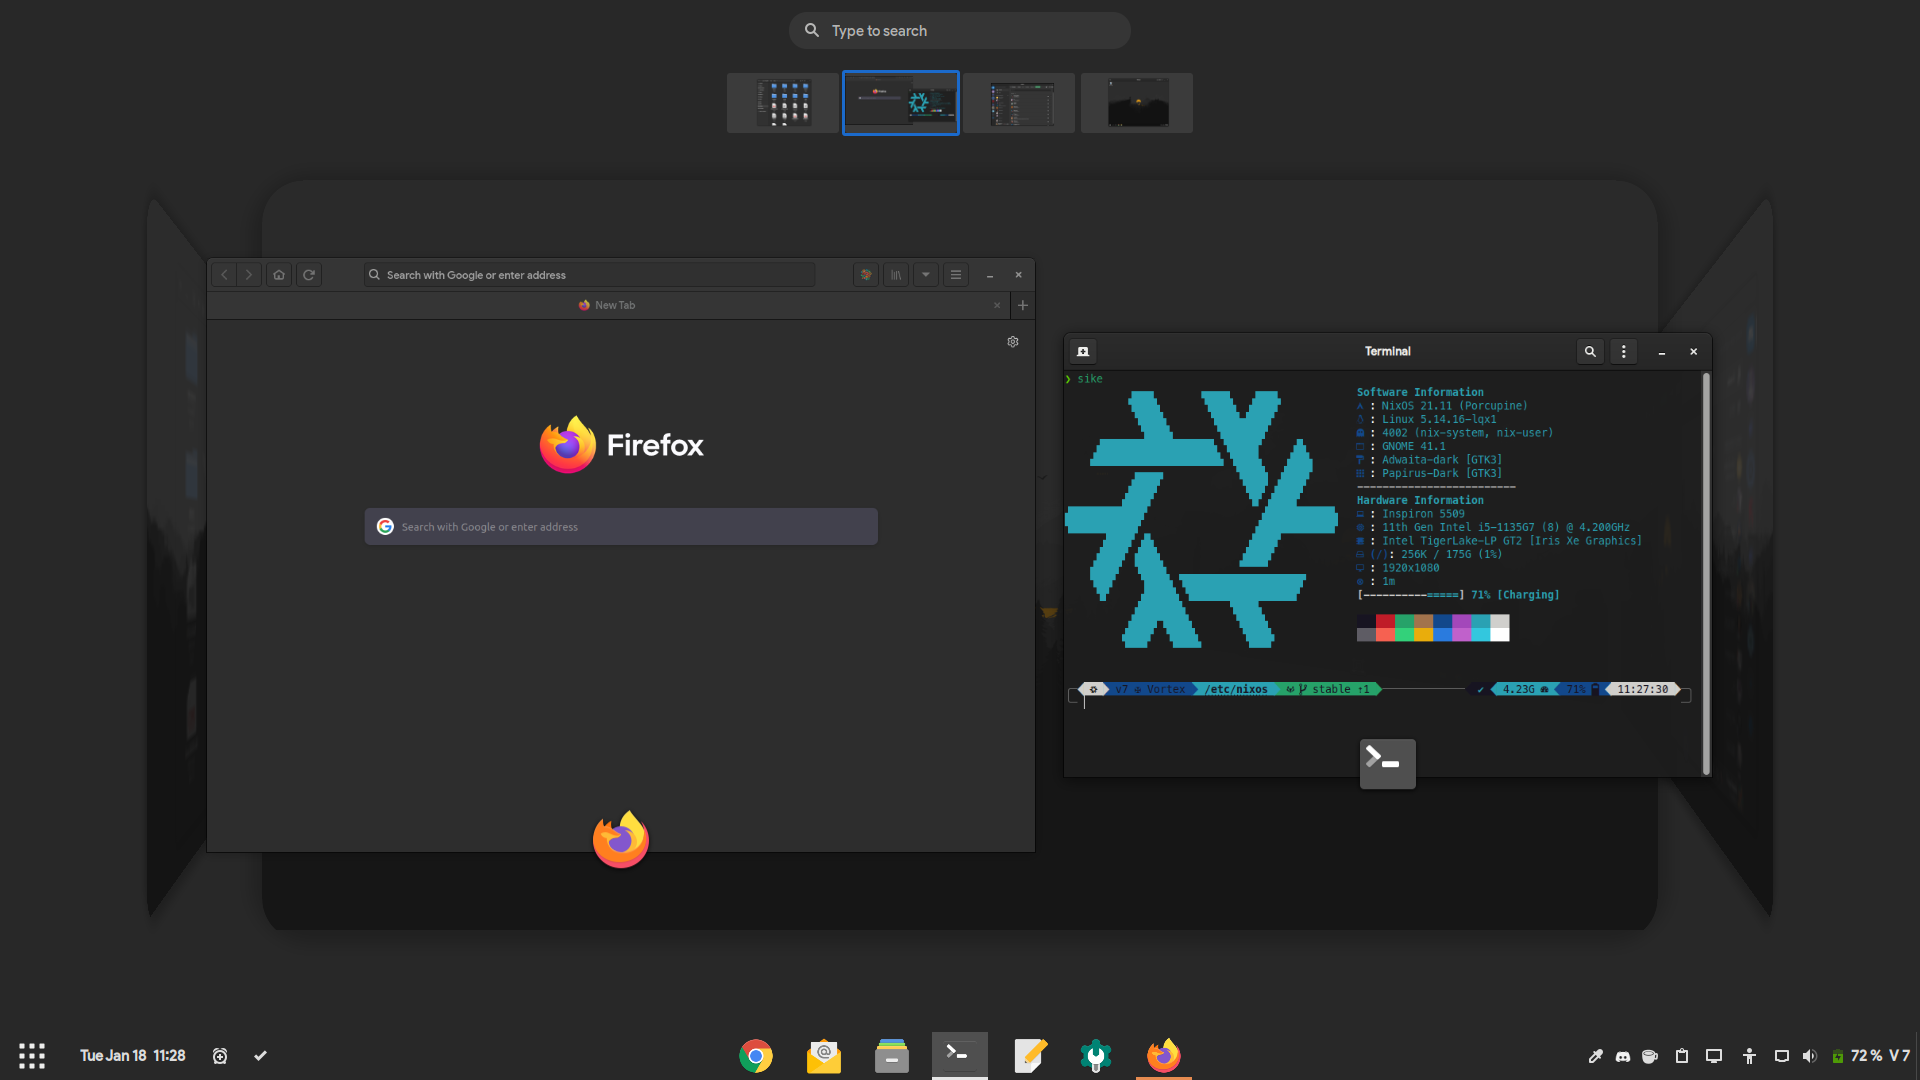
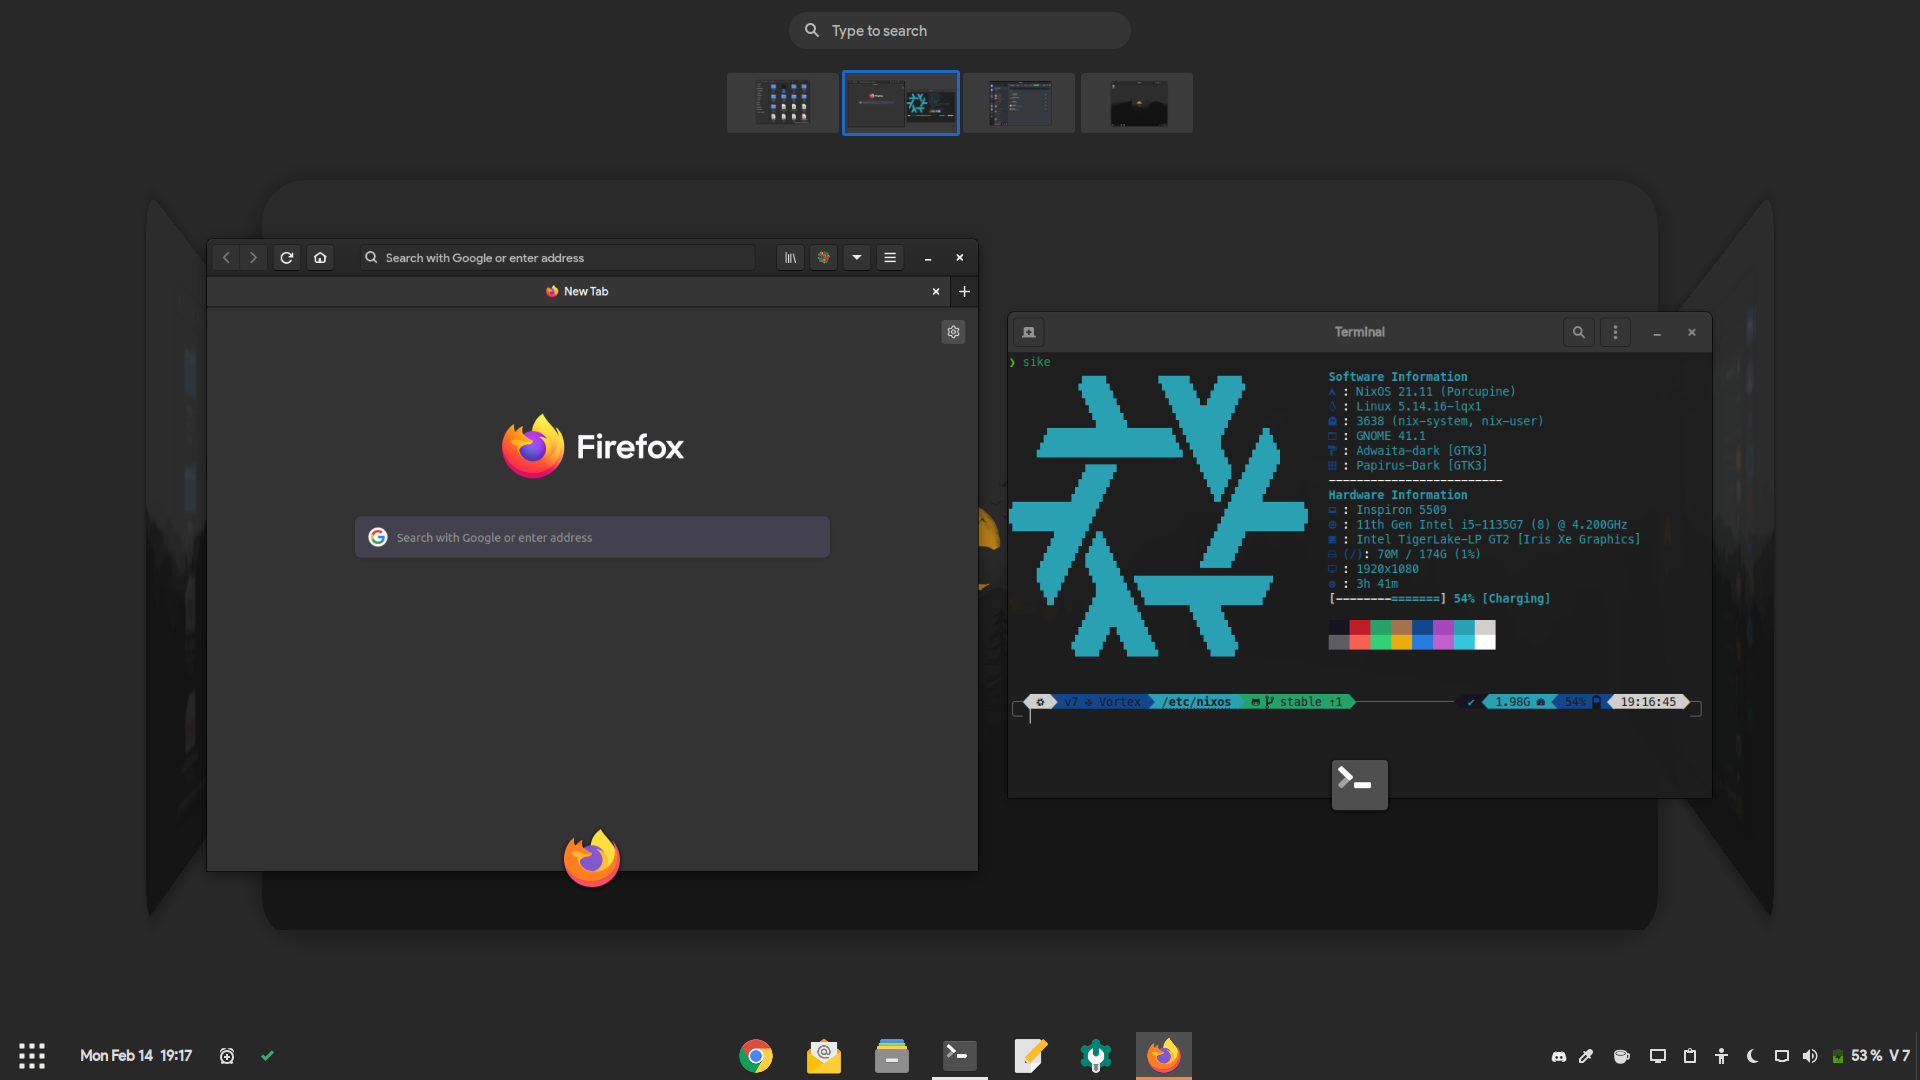
feat: Add Firefox CSS

diff --git a/files/firefox/userContent.css b/files/firefox/userContent.css
@@ -1,0 +1,65 @@
+/* ## Firefox GNOME Theme ## */
+
+/* ## Color Scheme */
+ :root {
+     --accent-color: 21, 83 ,158;
+     --secondary-accent-color: 255, 255, 255;
+     --light-color: 227, 227, 227;
+     --light-color-text: 51, 51, 51;
+     --dark-color: 51, 51, 51;
+     --dark-color-text: 227, 227, 227;
+     --dark-color-light: 77, 77, 77;
+}
+
+/* # Light Theme */
+ :root {
+     --main-bgcolor: var(--dark-color);
+     --transparent-bgcolor: var(--dark-color);
+}
+
+ @media (prefers-color-scheme: light) {
+     @-moz-document url("about:newtab"), url("about:home"), url("about:blank") {
+         body {
+             background-color: rgba(var(--light-color), 1) !important;
+        }
+    }
+     .outer-wrapper.newtab-experience .search-wrapper .search-handoff-button, .outer-wrapper.newtab-experience .search-wrapper input, html body.activity-stream div#root div span button.personalize-button {
+         transition: all 0.3s ease !important;
+         background-color: rgba(var(--secondary-accent-color), 1) !important;
+         color: rgba(var(--light-color-text), 1) !important;
+    }
+     html body.activity-stream div#root div span button.personalize-button:hover {
+         background-color: rgba(var(--accent-color), 0.2) !important;
+    }
+}
+
+/* # Dark Theme */
+ :root:-moz-lwtheme-brighttext {
+     --main-bgcolor: var(--dark-color);
+     --transparent-bgcolor: var(--dark-color);
+}
+ .outer-wrapper.newtab-experience .search-wrapper .search-handoff-button, .outer-wrapper.newtab-experience .search-wrapper input {
+     box-shadow: none !important;
+}
+ .outer-wrapper.newtab-experience .search-wrapper.fake-focus:not(.search.disabled) .search-handoff-button {
+     border-color: rgba(var(--accent-color), 1) !important;
+}
+
+ @media (prefers-color-scheme: dark) {
+     @-moz-document url("about:newtab"), url("about:home"), url("about:blank") {
+         body {
+             background-color: rgba(var(--dark-color), 1) !important;
+        }
+    }
+     .outer-wrapper.newtab-experience .search-wrapper .search-handoff-button, .outer-wrapper.newtab-experience .search-wrapper input, html body.activity-stream div#root div span button.personalize-button {
+         transition: all 0.3s ease !important;
+         background-color: rgba(var(--dark-color-light), 1) !important;
+         color: rgba(var(--dark-color-text), 1) !important;
+    }
+     html body.activity-stream div#root div span button.personalize-button:hover {
+         background-color: rgba(var(--accent-color), 0.3) !important;
+    }
+     .search-handoff-button .fake-textbox {
+         color: rgba(var(--light-color), 1) !important;
+    }
+}

diff --git a/scripts/README.md b/scripts/README.md
@@ -6,24 +6,24 @@ A system management script, invoked with the command [`nixos`](./nixos.nix), has
 $ nixos
 # Legend #
   xxx - Command
-  [ ] - Optional             - Command Description
+  [ ] - Optional              - Command Description
   ' ' - Variable
 
 # Usage #
-  apply [ --'option' ]       - Applies Device and User Configuration
-  cache 'command'            - Pushes Binary Cache Output to Cachix
-  check [ --trace ]          - Checks System Configuration [ Displays Error to Trace ]
-  clean [ --all ]            - Garbage Collects and Optimises Nix Store
-  explore                    - Opens Interactive Shell to explore Syntax and Configuration
-  install                    - Installs NixOS onto System
-  iso 'variant' [ --burn ]   - Builds Image for Specified Install Media or Device [ Burns '.iso' to USB ]
-  list [ 'pattern' ]         - Lists all Installed Packages [ Returns Matches ]
-  locate 'package'           - Locates Installed Package
-  run [ 'path' ] 'command'   - Runs Specified Command [ from 'path' ] (Wraps 'nix run')
-  save                       - Saves Configuration State to Repository
-  search 'term' [ 'source' ] - Searches for Packages [ Providing 'term' ] or Configuration Options
-  secret 'choice' [ 'path' ] - Manages 'sops' Encrypted Secrets
-  setup                      - Sets up System after Install
-  shell [ 'name' ]           - Opens desired Nix Developer Shell
-  update [ 'repository' ]    - Updates System Repositories
+  apply [ --'option' ]        - Applies Device and User Configuration
+  cache 'command'             - Pushes Binary Cache Output to Cachix
+  check [ --trace ]           - Checks System Configuration [ Displays Error to Trace ]
+  clean [ --all ]             - Garbage Collects and Optimises Nix Store
+  explore                     - Opens Interactive Shell to explore Syntax and Configuration
+  install                     - Installs NixOS onto System
+  iso 'variant' [ --burn ]    - Builds Image for Specified Install Media or Device [ Burns '.iso' to USB ]
+  list [ 'pattern' ]          - Lists all Installed Packages [ Returns Matches ]
+  locate 'package'            - Locates Installed Package
+  run [ 'path' ] 'command'    - Runs Specified Command [ from 'path' ] (Wraps 'nix run')
+  save                        - Saves Configuration State to Repository
+  search 'term' [ 'source' ]  - Searches for Packages [ Providing 'term' ] or Configuration Options
+  secret 'choice' [ 'path' ]  - Manages 'sops' Encrypted Secrets
+  setup                       - Sets up System after Install
+  shell [ 'name' ]            - Opens desired Nix Developer Shell
+  update [ 'repository' ]     - Updates System Repositories
  ```
